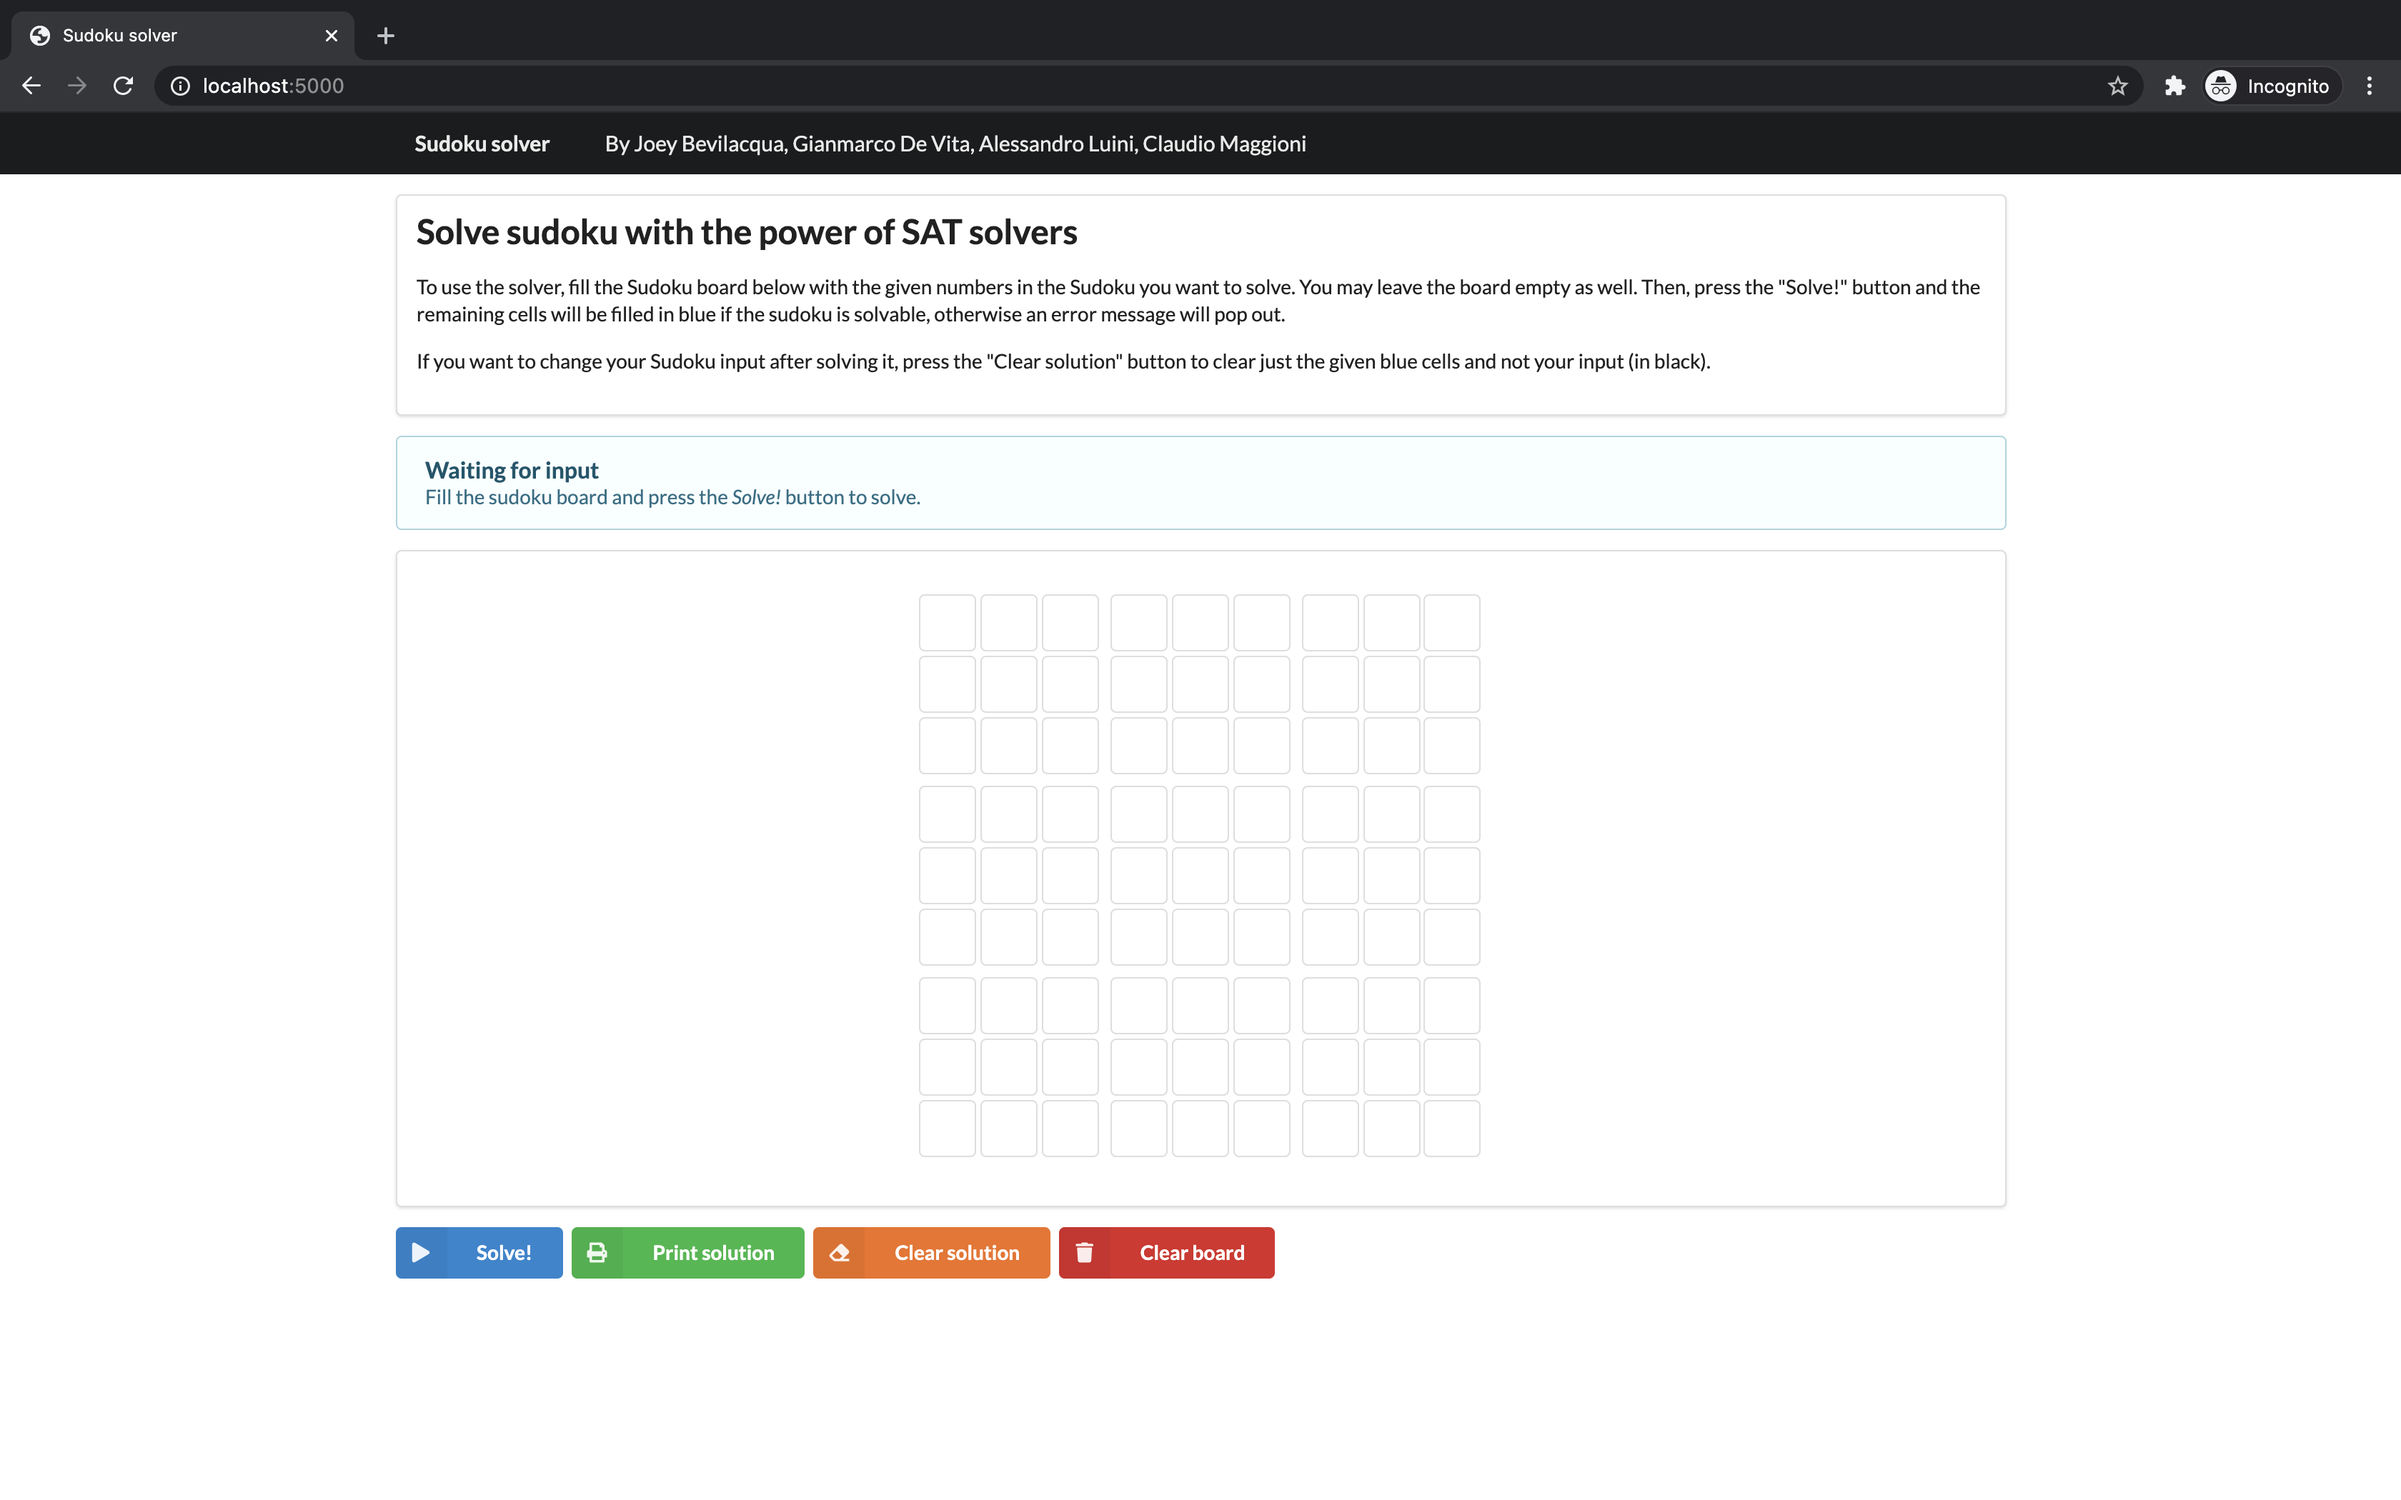
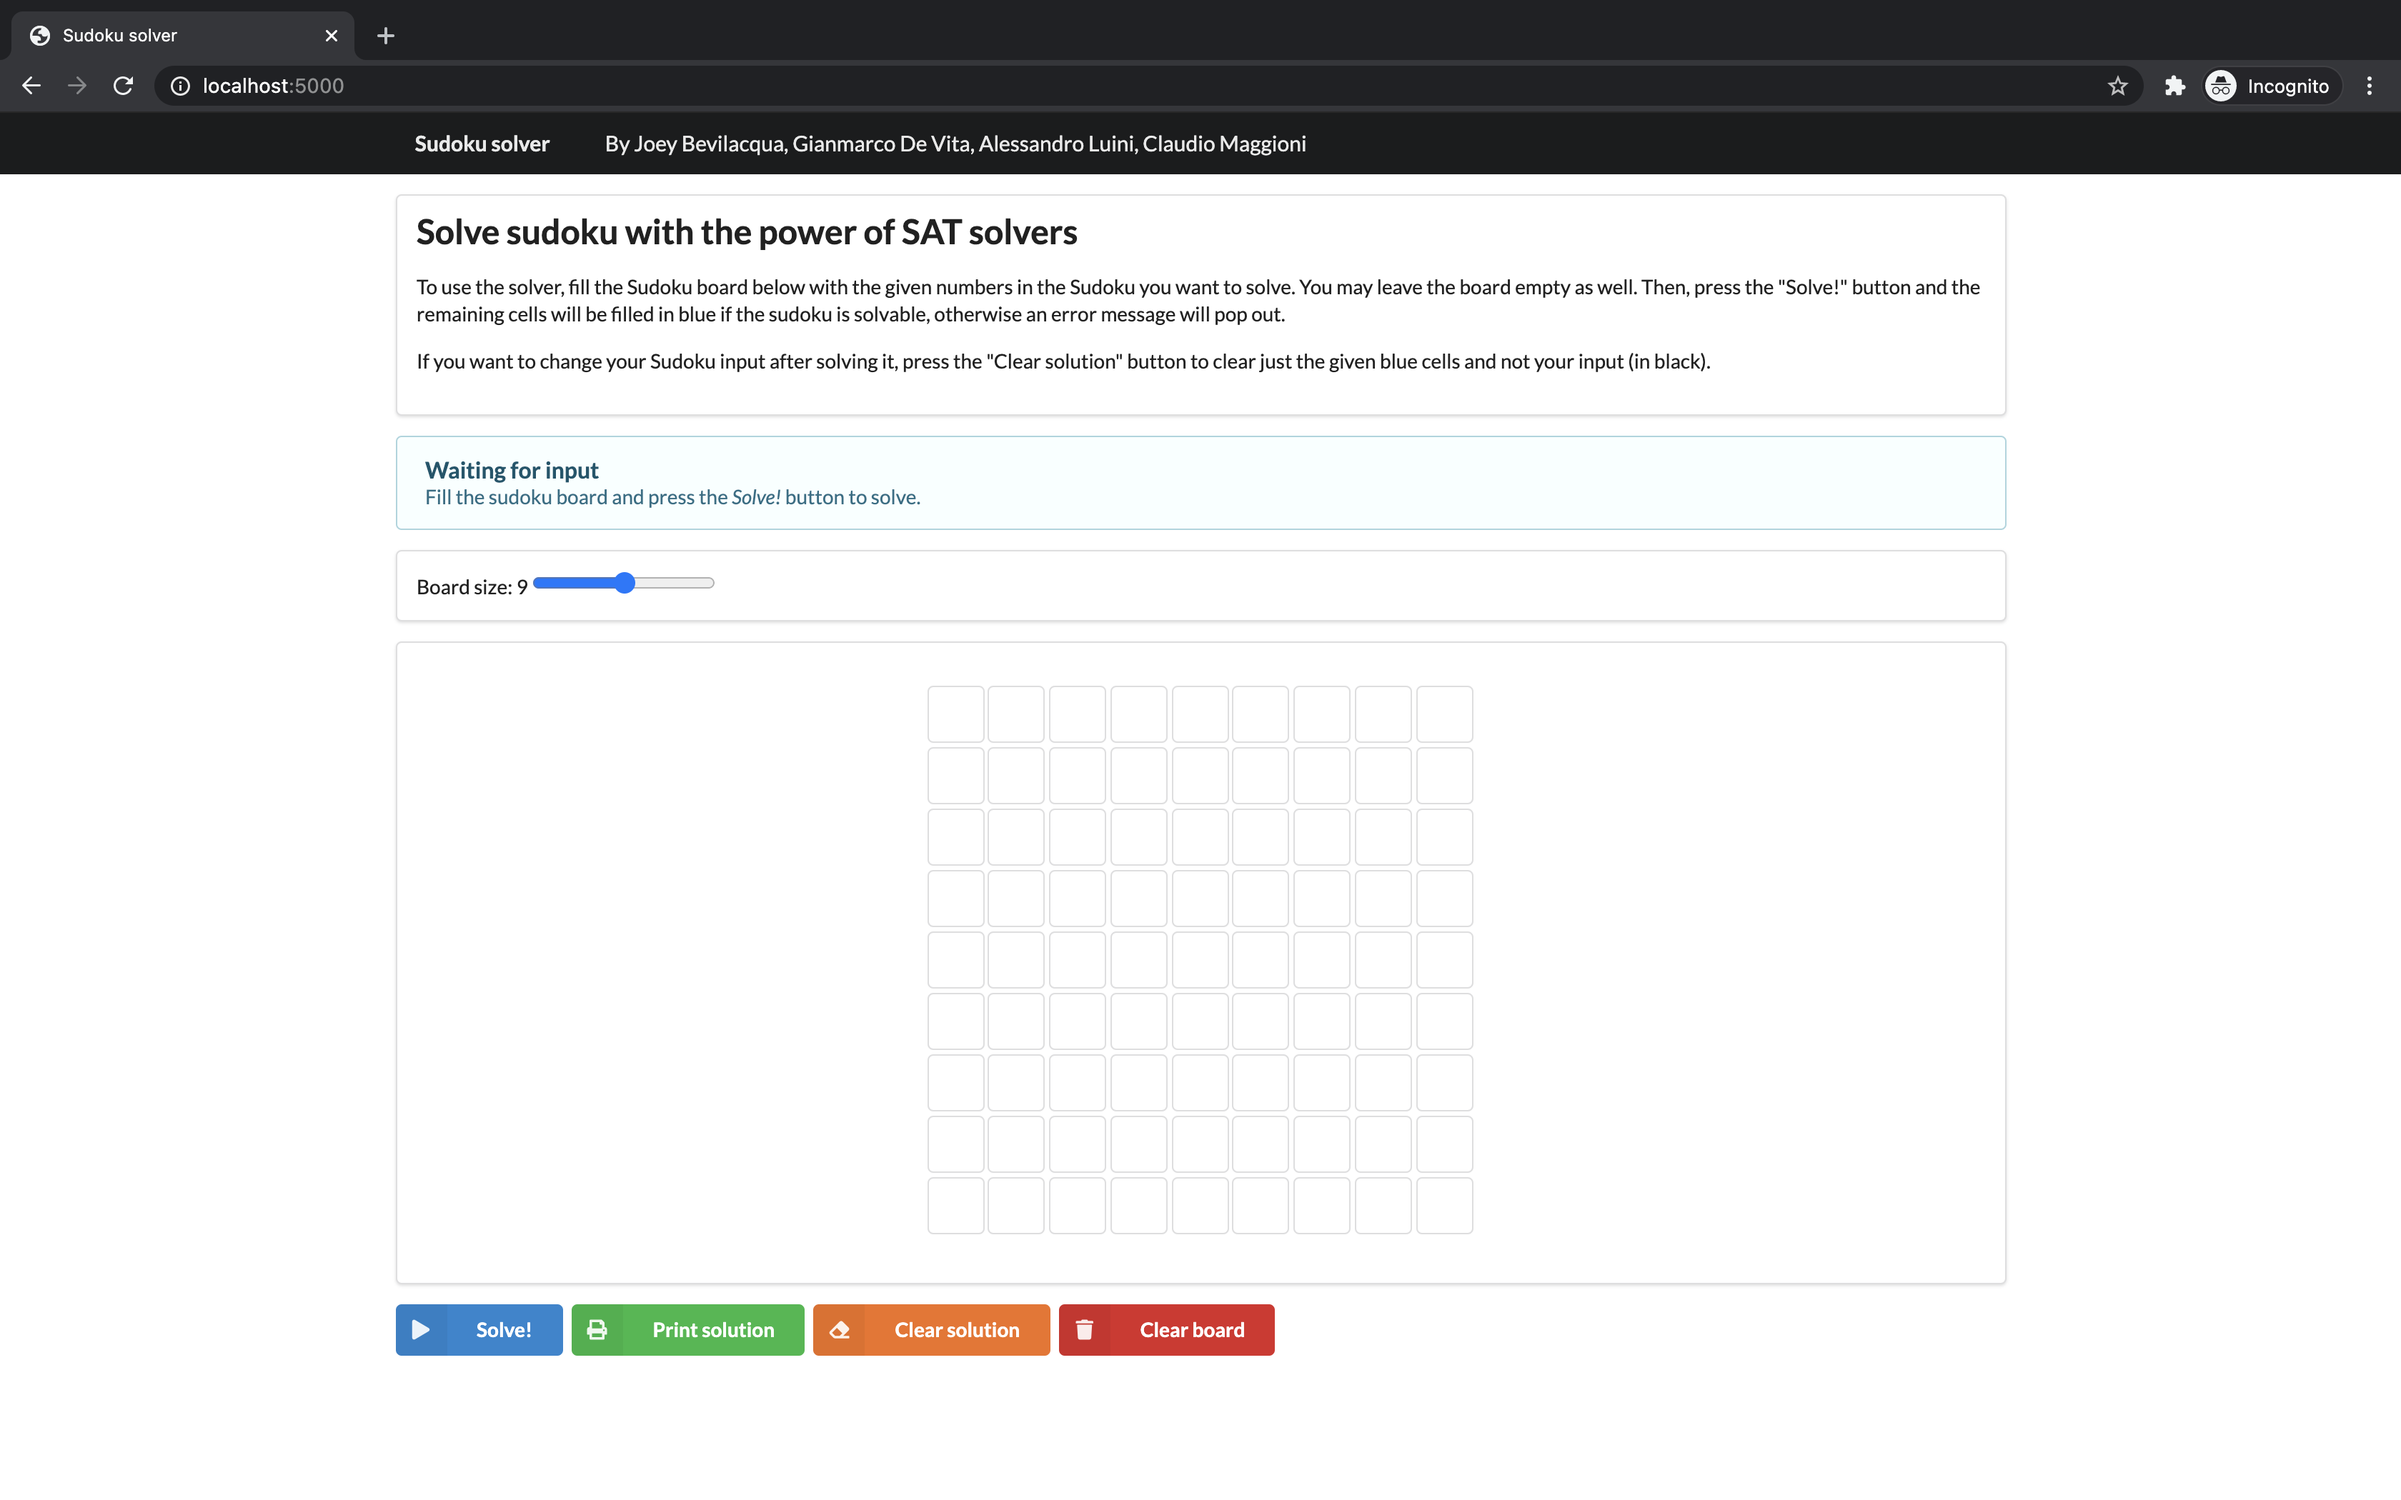
apology for poor english
when were you when lab2 dies?

i was sat at home doing OM when stefan ring

‘lab2 is kill’

‘no’

Changed region(s): [[0.1562, 0.4024, 0.625, 0.9286], [0.1875, 0.3714, 0.2812, 0.4024]]

diff --git a/solver/templates/base.html b/solver/templates/base.html
@@ -154,7 +154,7 @@ function solve(e) {
 function buildBoard(n) {
   const size = n || 9;
   let boardContent = "";
-  let input = (i,j) => `<input id="x${i}y${j}" min="1" max="n" step="1" type="number"/>`;
+  let input = (i,j) => `<input id="x${i}y${j}" min="1" max="${n}" step="1" type="number"/>`;
 
   for (let i = 0; i < n; i++) {
     boardContent += "<tr>";
@@ -207,7 +207,7 @@ function buildBoard(n) {
       </div>
       <div class="ui segment">
           <label for="sizer">Board size: <span id="boardSize">9</span></label>
-          <input id="sizer" type="range" min="1" max="5" step="1" value="3">
+          <input id="sizer" type="range" min="1" max="4" step="1" value="3">
           <script>
 const boardSizeText = document.getElementById("boardSize")
 document.getElementById("sizer").onchange = function() {

diff --git a/report/paper.tex b/report/paper.tex
@@ -393,7 +393,7 @@ find in the figure below the Sudoku examples.
 \begin{figure}[ht]
 \centering
 \includegraphics[width=0.8\textwidth]{pics/solved.png}
-\caption{Press the \texttt{Solve} button to find the soluscion}
+\caption{Press the \texttt{Solve} button to find the solution}
 \end{figure}
 
 \begin{figure}[ht]
@@ -417,7 +417,7 @@ find in the figure below the Sudoku examples.
 \begin{figure}[ht]
 \centering
 \includegraphics[width=0.8\textwidth]{pics/input_check.png}
-\caption{Errors if a number is not in $ \left[ 1, 2,3,4,5,6,7,8, 9 \right] $}
+\caption{Errors if a number is not in $ \left[ 1, \hdots n \right] $ (where $n$ is the side of the board)}
 \end{figure}
 
 \begin{figure}[ht]

diff --git a/solver/app.py b/solver/app.py
@@ -49,12 +49,10 @@ def build_sudoku_solver(board, n):
     size_box = int(math.sqrt(n))
     for i in range(0, n, size_box):
         for j in range(0, n, size_box):
-            print("SQUARE %s %s" % (int(i / size_box), int(j / size_box)))
             args = []
             for q in range(0, size_box):
                 for w in range(0, size_box):
                     args.append(board[i + q][j + w])
-            print(args)
             squares_check.append(is_valid(n, *args))
 
     s = Solver()

diff --git a/slides/slide.tex b/slides/slide.tex
@@ -208,7 +208,7 @@ apply it to all the nine rows, nine columns and nine boxes.
 \end{frame}
 
 \begin{frame}
-\textbf{Graphical User Interface (GUI, not Guy Fieri)} \\
+\textbf{Graphical User Interface (GUI)} \\
 \vspace{1em}
 \centerline{\includegraphics[scale=0.12]{app_ui}}
 \end{frame}
